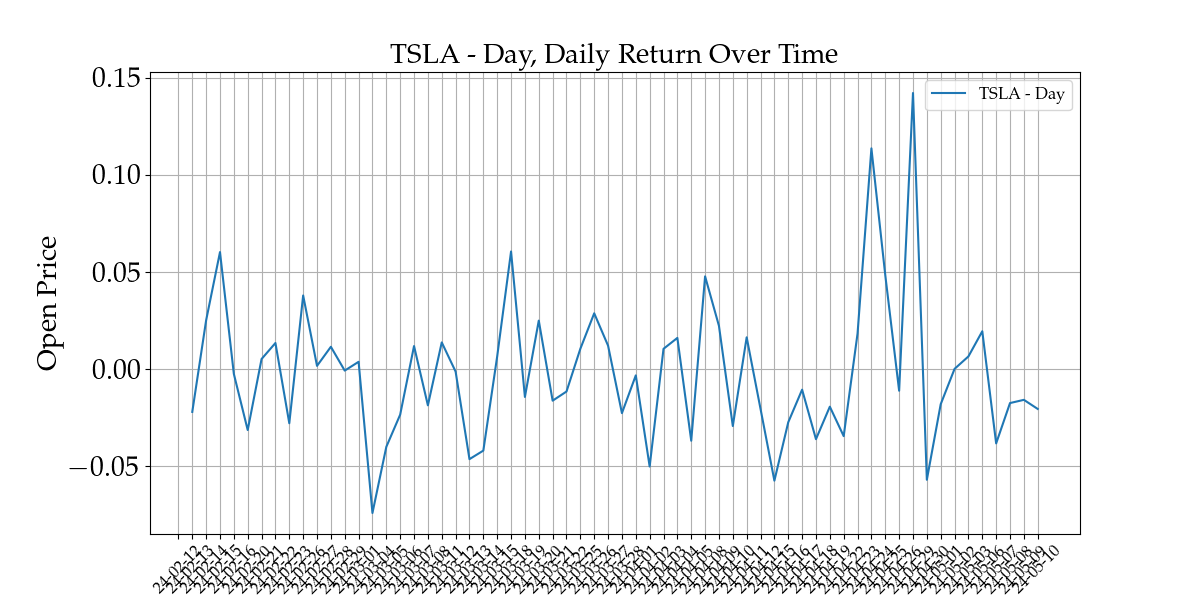
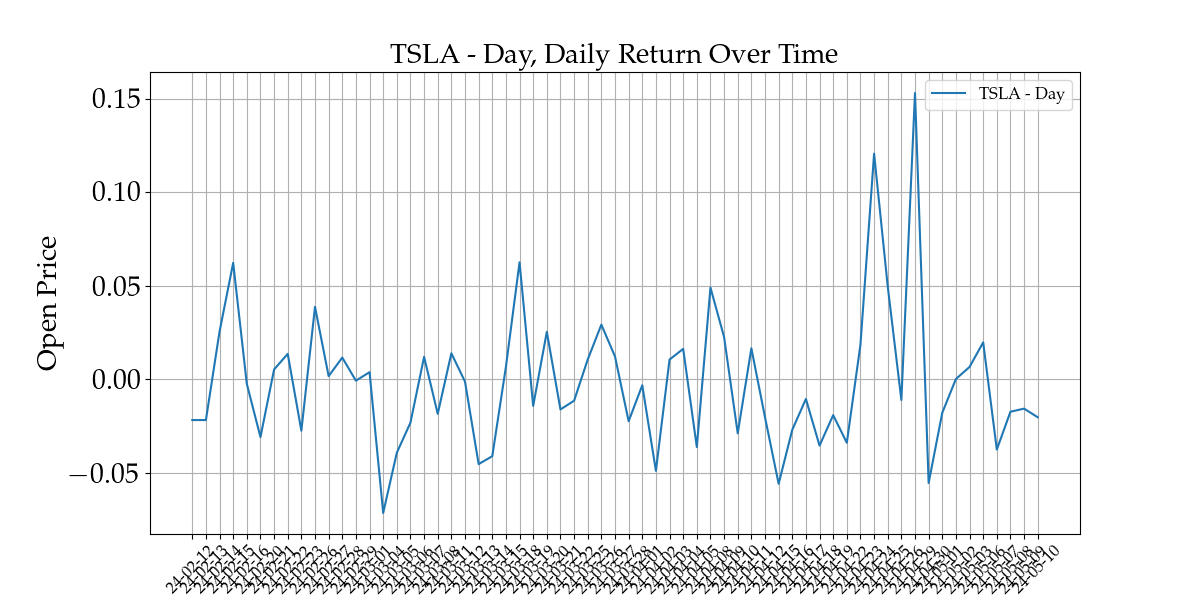
Fix bug
Fix bug

diff --git a/Multi-Input_GPR/main.py b/Multi-Input_GPR/main.py
@@ -393,7 +393,7 @@ class MultiInputGPR:
         X = self.data_handler.concatenate_X(_X)
 
         Y = Y_AAPL_tf
-        self.full_correlations(X, Y)
+        full_corr = np.array(self.full_correlations(X, Y))
 
          # add test data to predict as well
         X_full.append(X_AAPL_full_tf)
@@ -481,7 +481,7 @@ if __name__ == "__main__":
     portolio_assets = [ticker1, ticker2, ticker3, ticker4, ticker5]
 
     timeframes = ['d', 'w', 'm']
-    predict_Y = 'daily_log_return'
+    predict_Y = 'return'
     isLogReturn = False
     if predict_Y == 'daily_log_return':
         isLogReturn = True
@@ -496,7 +496,7 @@ if __name__ == "__main__":
 
     l1 = 0.01
     l2 = 0.00
-    broker_fee = 0.00001
+    broker_fee = 0.00001 # 0.01%
     if_add_broker_fee_as_regularisation = True
 
 
@@ -532,7 +532,7 @@ if __name__ == "__main__":
             isFixedLikelihood=False
         )
         #predicted = multiInputGPR.run_step_3()
-        predicted = multiInputGPR.run_step_4()
+        predicted = multiInputGPR.run_step_3()
         
         # [ [asset1 over 5 days], [asset2 over 5 days], ...]
         predicted_values.append(predicted[0])
@@ -549,7 +549,7 @@ if __name__ == "__main__":
     
 
     optimizer = Optimizer(lambda_l1=l1, lambda_l2=l2, trx_fee=broker_fee, if_tx_penalty=if_add_broker_fee_as_regularisation) 
-    portfolio = Portfolio(portolio_assets, predicted_values, predicted_variances, optimizer, risk_free_rate=risk_free_rate, lambda_=0.01, broker_fee=broker_fee, if_cml=True)
+    portfolio = Portfolio(portolio_assets, predicted_values, predicted_variances, optimizer, risk_free_rate=risk_free_rate, lambda_=0.01, broker_fee=broker_fee)
     
     # isLogReturn = False
     optimal_weights, volatilities = portfolio.evaluate_portfolio(strategy_name='constant', max_volatility=max_volatility_threshold, min_return=min_return_threshold, isLogReturn=isLogReturn)

diff --git a/Multi-Input_GPR/Portfolio/portfolio.py b/Multi-Input_GPR/Portfolio/portfolio.py
@@ -11,17 +11,17 @@ from Portfolio.returns import Return
 from Portfolio.volatilities import Volatility
 
 class Portfolio:
-    def __init__(self, assets, asset_returns, predicted_volatilities, optimizer, risk_free_rate=0.01/252, lambda_=0.01, broker_fee=0, if_cml=False):
+    def __init__(self, assets, asset_returns, predicted_volatilities, optimizer, risk_free_rate=0.01/252, lambda_=0.01, broker_fee=0):
         """
         Initialize the Portfolio with a list of assets, optimizer, strategy, and optional parameters for fees and regularization.
         
         :param assets: List of asset tickers.
+        :param asset_returns: Asset returns for each day. [ [asset1 over 5 days], [asset2 over 5 days], ...]
+        :param predicted_volatilities: Predicted volatilities for each asset. [ [asset1 over 5 days], [asset2 over 5 days], ...]
         :param optimizer: Optimizer instance for portfolio optimization.
-        :param strategy: Strategy instance to handle different optimization strategies.
         :param risk_free_rate: The risk-free rate used in optimization (default is 1% annualized).
         :param lambda_: Regularization parameter.
         :param broker_fee: Broker fee percentage applied to each trade.
-        :param regularization: Boolean to indicate whether regularization is applied.
         """
         self.assets = assets
         self.optimizer = optimizer
@@ -33,8 +33,6 @@ class Portfolio:
 
         self.returns = asset_returns
         self.variances = predicted_volatilities  # Initialize previous weights
-
-        self.if_cml = if_cml
 
         # Strategy mapping - maps strategy names to their corresponding classes
         self.strategy_mapping = {
